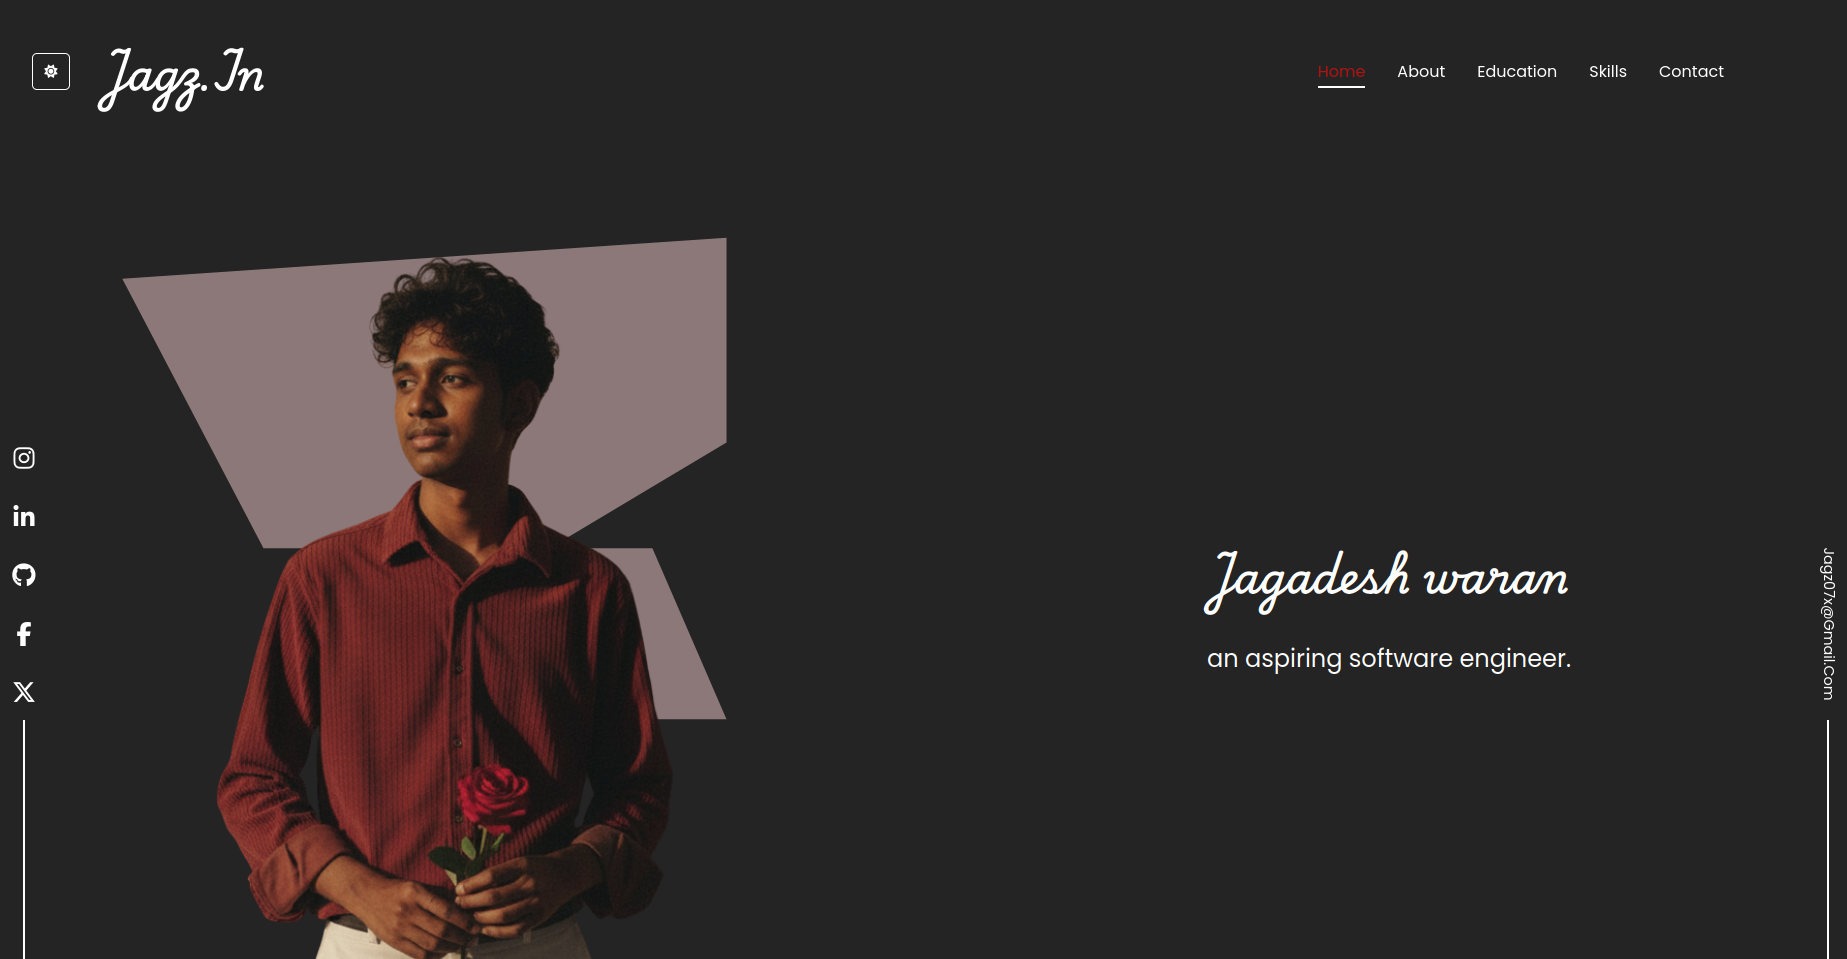
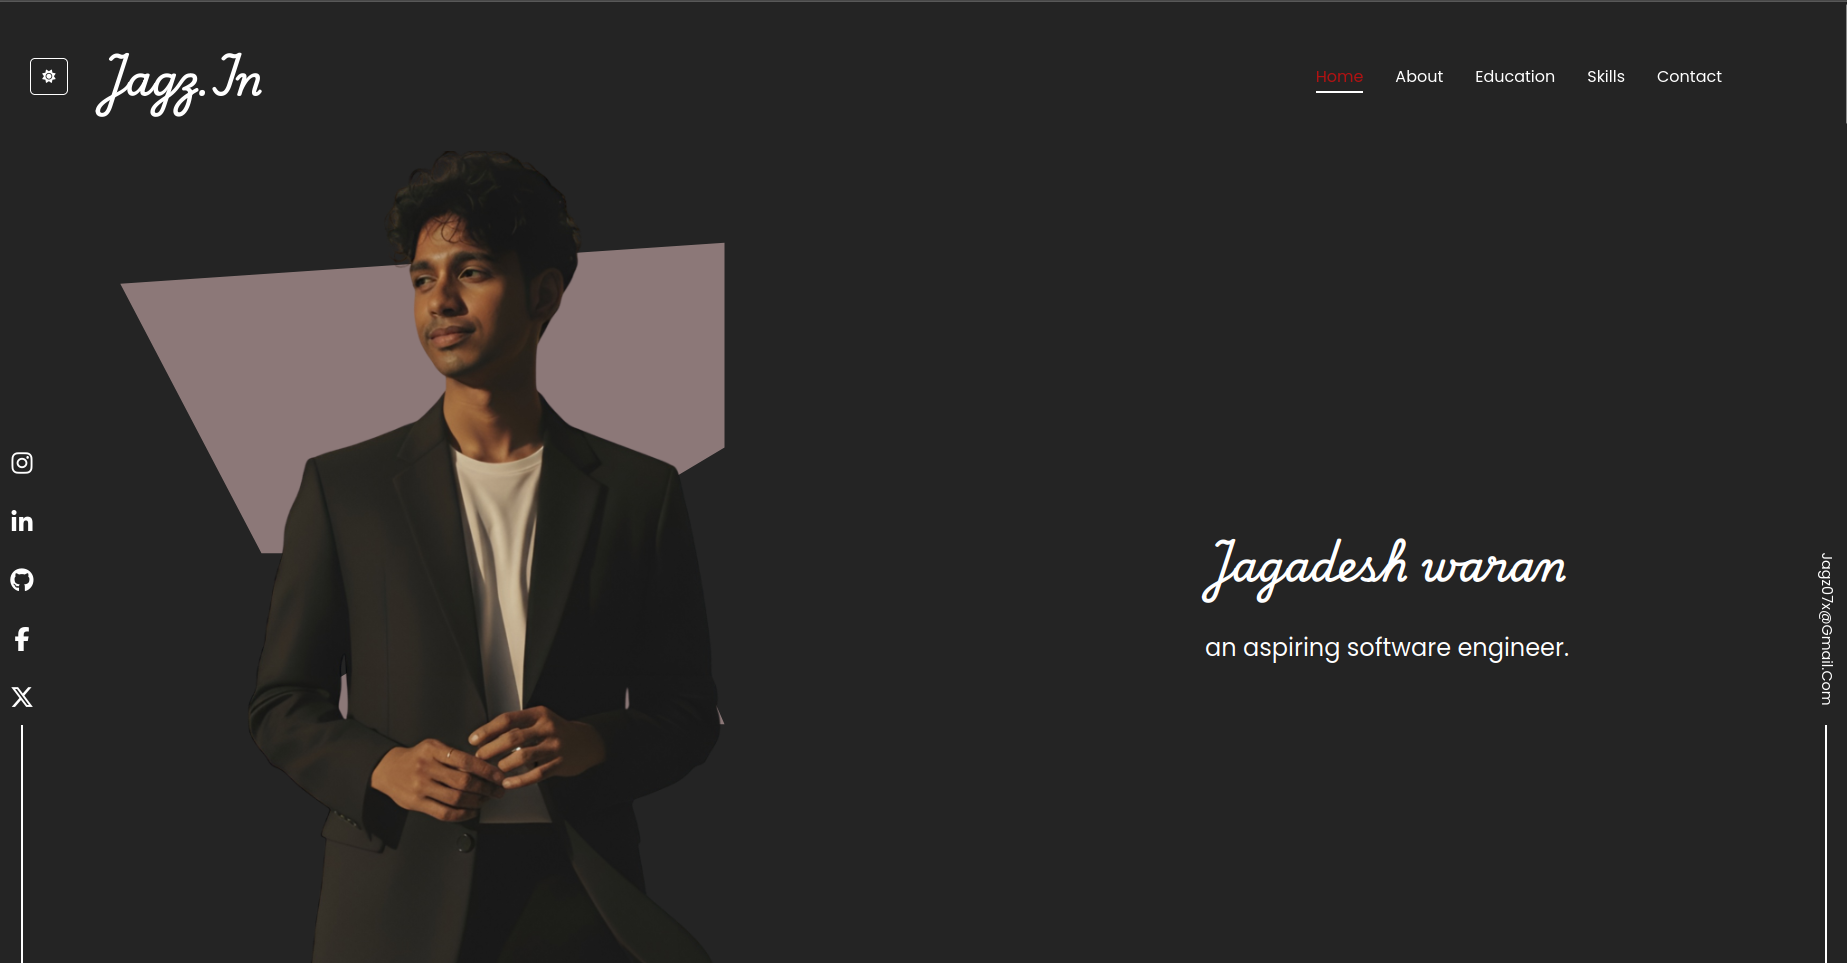
updated profile pic

diff --git a/index.html b/index.html
@@ -46,8 +46,8 @@
      <section id="home">
         <div class="hbox"></div>
         <div class="left slide-in">
-            <img src="assets/pc-profile-pic.png" alt="">
-            <img src="assets/mobile-profile-pic.png" alt="">
+            <img src="assets/pc-profile-dark.png" alt="" class="pc-pic-dark">
+            <img src="assets/mobile-profile-dark.png" alt="" class="mobile-pic-dark">
         </div>
         <div class="right">
             <h1 class="slide-right">Jagadesh waran</h1>
